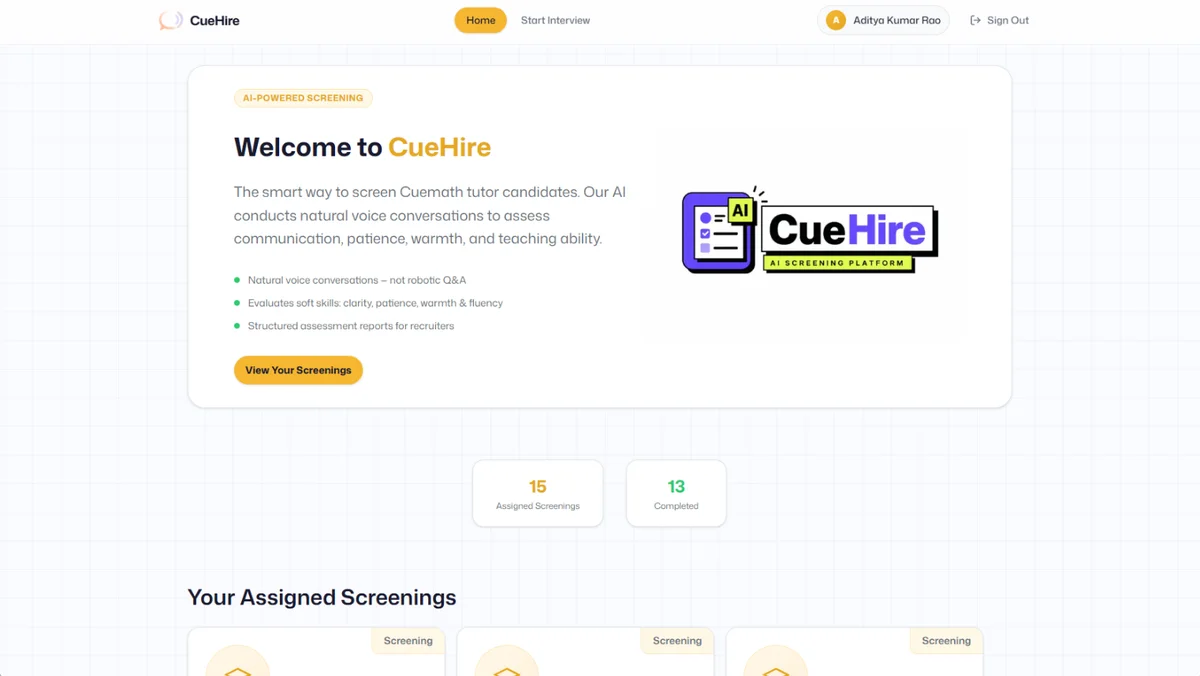
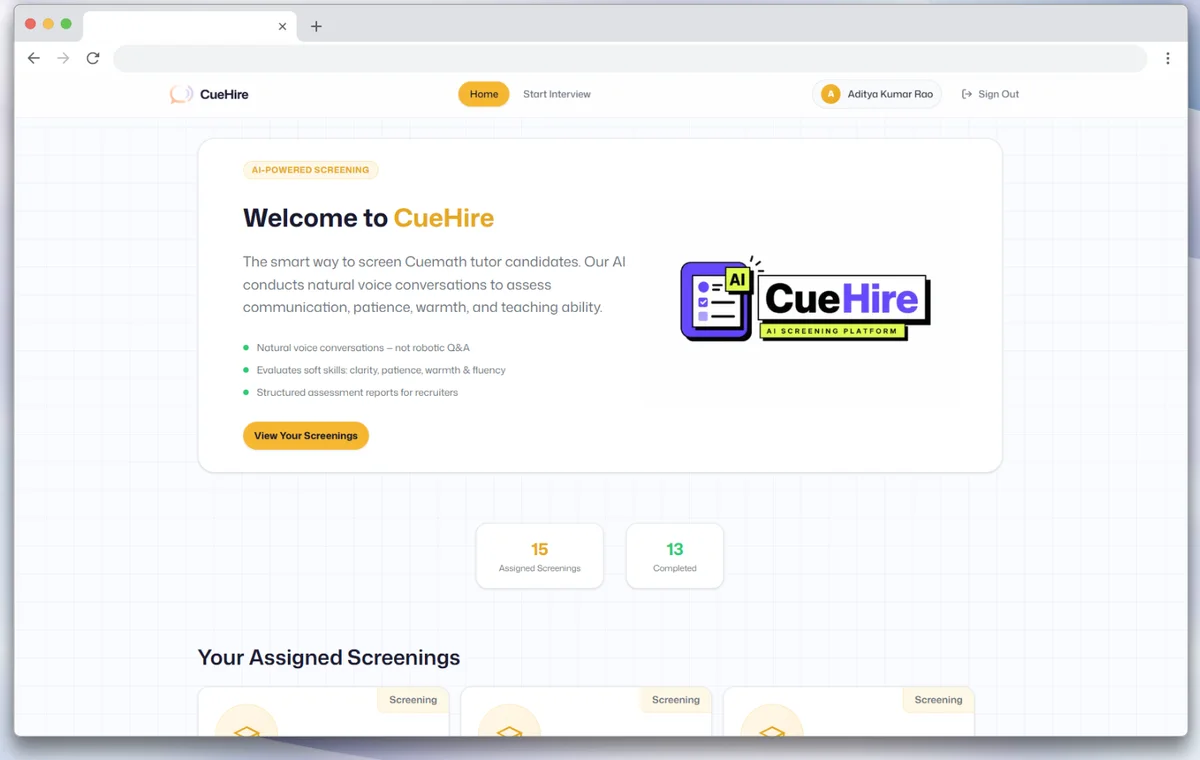
fix: keep browser frame in thumbnails, smooth-scroll the index
Recrop the three project thumbnails to include the browser window chrome
that the supplied mockups have; the earlier crops stripped it and showed
only page content.

Route index clicks through Lenis. It owns the scroll, so a native anchor
jump fought it and read as an abrupt transition. Clicks now animate to
the target and land 122px from the top.

diff --git a/src/components/common/SideIndex.tsx b/src/components/common/SideIndex.tsx
@@ -1,6 +1,7 @@
 "use client";
 
 import { Link } from "next-view-transitions";
+import { useLenis } from "lenis/react";
 import { usePathname } from "next/navigation";
 import { useEffect, useState } from "react";
 
@@ -16,6 +17,19 @@ export default function SideIndex() {
   const [active, setActive] = useState<string>("");
   const pathname = usePathname();
   const isHome = pathname === "/";
+  const lenis = useLenis();
+
+  // Lenis owns the scroll, so a native anchor jump fights it. Hand the
+  // target to Lenis instead and let it animate there.
+  const scrollTo = (event: React.MouseEvent, id: string) => {
+    const target = document.getElementById(id);
+    if (!target) return;
+    event.preventDefault();
+    setActive(id);
+    if (lenis) lenis.scrollTo(target, { offset: -90, duration: 1 });
+    else target.scrollIntoView({ behavior: "smooth", block: "start" });
+    history.replaceState(null, "", `#${id}`);
+  };
 
   useEffect(() => {
     if (!isHome) return;
@@ -55,6 +69,7 @@ export default function SideIndex() {
         <a
           key={s.id}
           href={`#${s.id}`}
+          onClick={(event) => scrollTo(event, s.id)}
           className={`flex shrink-0 items-center gap-3 text-[12px] font-medium tracking-[0.05em] whitespace-nowrap transition-all duration-300 ease-out ${
             active === s.id
               ? "text-zinc-900 dark:text-zinc-100"
